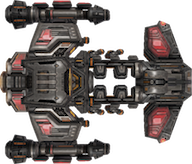
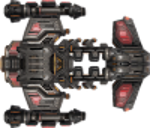
Turning ship

diff --git a/lib/bullet.js b/lib/bullet.js
@@ -1,29 +1,30 @@
 "use strict";
 
 (function(root) {
-   var StarTrek = root.StarTrek = (root.StarTrek || {});
+  var StarTrek = root.StarTrek = (root.StarTrek || {});
 
-   var Bullet = StarTrek.Bullet = function(options) {
-     options.radius = Bullet.RADIUS;
-     options.color = Bullet.COLOR;
+  var Bullet = StarTrek.Bullet = function(options) {
+    options.radius = Bullet.RADIUS;
+    options.color = Bullet.COLOR;
+    options.speed = Bullet.SPEED;
 
-     StarTrek.MovingObject.call(this, options);
-   };
+    StarTrek.MovingObject.call(this, options);
+  };
 
-   Bullet.COLOR = '#fff';
-   Bullet.RADIUS = 2;
-   Bullet.SPEED = 15;
+  Bullet.COLOR = '#fff';
+  Bullet.RADIUS = 2;
+  Bullet.SPEED = 45;
 
-   StarTrek.Utilities.inherits(Bullet, StarTrek.MovingObject);
+  StarTrek.Utilities.inherits(Bullet, StarTrek.MovingObject);
 
-   Bullet.prototype.collideWith = function(otherObject) {
-     if (otherObject.constructor !== StarTrek.Asteroid) {
-       return;
-     }
+  Bullet.prototype.collideWith = function(otherObject) {
+    if (otherObject.constructor !== StarTrek.Asteroid) {
+      return;
+    }
 
-     this.remove();
-     otherObject.remove();
-   };
+    this.remove();
+    otherObject.remove();
+  };
 
-   Bullet.prototype.isWrappable = false;
+  Bullet.prototype.isWrappable = false;
 })(this);

diff --git a/lib/ship.js b/lib/ship.js
@@ -10,6 +10,8 @@
 
    var Ship = StarTrek.Ship = function(options) {
      options.radius = StarTrek.Ship.RADIUS;
+     options.speed = 0;
+     options.angle = 0;
      options.vel = options.vel || [0, 0];
      options.color = options.color || randomColor();
 
@@ -20,15 +22,22 @@
 
    Ship.COLOR = 'Black';
    Ship.RADIUS = 15;
+   Ship.MAX_SPEED = 10;
 
    Ship.prototype.power = function(impulse){
-     this.vel[0] += impulse[0];
-     this.vel[1] += impulse[1];
+    if (Math.abs(this.speed + impulse) <= Ship.MAX_SPEED) {
+      this.speed += impulse;
+    }
+   };
+
+   Ship.prototype.turn = function(rads) {
+    this.angle += rads;
+    this.angle %= 2 * Math.PI;
    };
 
    Ship.prototype.relocate = function() {
      this.pos = this.game.randomPosition();
-     this.vel = [0, 0];
+     this.speed = 0;
    };
 
    Ship.prototype.fireBullet = function() {
@@ -49,8 +58,8 @@
 
        var bullet = new StarTrek.Bullet({
          pos: this.pos,
+         angle: this.angle,
          vel: bulletVel,
-         color: this.color,
          game: this.game,
          image: this.game.images.bullet
        });

diff --git a/lib/moving_object.js b/lib/moving_object.js
@@ -7,7 +7,9 @@
     function(options) {
       this._id = options._id || Math.random();
       this.pos = options.pos;
+      this.angle = options.angle;
       this.vel = options.vel;
+      this.speed = options.speed;
       this.radius = options.radius;
       this.color = options.color;
       this.game = options.game;
@@ -20,6 +22,7 @@
   MovingObject.prototype.draw = function(ctx) {
     ctx.save();
     ctx.translate(this.pos[0], this.pos[1]);
+    ctx.rotate(this.angle);
     ctx.drawImage(this.image, 0 - this.image.width / 2, 0 - this.image.height / 2);
 
     ctx.restore();
@@ -47,6 +50,11 @@
    MovingObject.prototype.isWrappable = true;
 
    MovingObject.prototype.move = function(numTicks) {
+    var speed = this.speed;
+
+    this.vel[0] = speed * Math.cos(this.angle);
+    this.vel[1] = speed * Math.sin(this.angle);
+
      this.pos = [
        (this.pos[0] + numTicks * this.vel[0]),
        (this.pos[1] + numTicks * this.vel[1])

diff --git a/lib/game_view.js b/lib/game_view.js
@@ -21,11 +21,16 @@
   GameView.prototype.bindKeyHandlers = function() {
     var ship = this.ship;
 
-    Object.keys(GameView.MOVES).forEach(function(k) {
-      var move = GameView.MOVES[k];
-      key(k, function() { ship.power(move); });
-    });
+    // Object.keys(GameView.MOVES).forEach(function(k) {
+    //   var move = GameView.MOVES[k];
 
+    //   key(k, function() { ship.power(move); });
+    // });
+
+    key('w', function() { ship.power(1) });
+    key('s', function() { ship.power(-1) });
+    key('a', function() { ship.turn(-0.5) });
+    key('d', function() { ship.turn(0.5) });
     key("space", function() { ship.fireBullet() });
   };
 

diff --git a/lib/asteroid.js b/lib/asteroid.js
@@ -6,12 +6,16 @@
   var Asteroid = StarTrek.Asteroid = function(options) {
     options.radius = Asteroid.RADIUS;
     options.color = Asteroid.COLOR;
+    options.speed = Asteroid.SPEED;
+    options.angle = Asteroid.ANGLE;
+
     StarTrek.MovingObject.call(this, options);
   };
 
   Asteroid.COLOR = 'red';
   Asteroid.RADIUS = 25;
   Asteroid.SPEED = 4;
+  Asteroid.ANGLE = 0;
 
   Asteroid.randomAsteroid = function(game, image){
     return new Asteroid({

diff --git a/lib/game.js b/lib/game.js
@@ -13,8 +13,8 @@
   };
 
   Game.NUM_ASTEROIDS = 10;
-  Game.DIM_X = 800;
-  Game.DIM_Y = 600;
+  Game.DIM_X = 1000;
+  Game.DIM_Y = 800;
   Game.FPS = 32;
   Game.COLOR = '#000';
 
@@ -91,7 +91,6 @@
         ctx.drawImage(background, i * width, j * height);
       }
     }
-
 
     this.allObjects().forEach(function(object) {
       object.draw(ctx);
